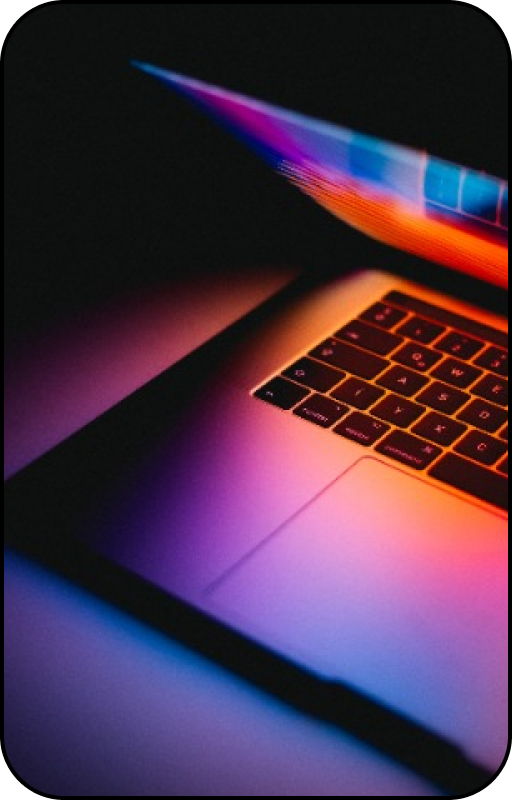
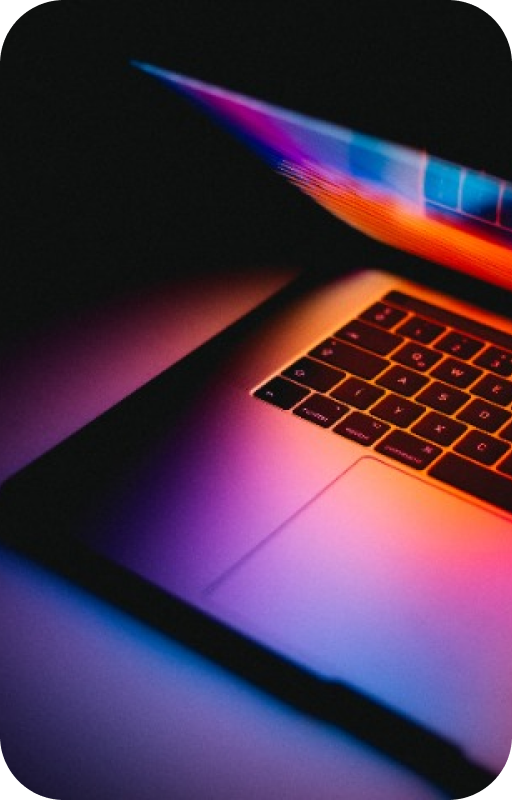
Add navbar, hero and product in the In tech computerizer

diff --git a/src/components/Product.jsx b/src/components/Product.jsx
@@ -6,7 +6,7 @@ export default function Product() {
   return (
     <section className="section py-12 px-4">
       <div className="flex flex-col lg:flex-row gap-12 xl:gap-0">
-        <div className="lg:w-1/2 flex gap-5 flex-col justify-center md:flex-row order-2 lg:order-1">
+        <div className="lg:w-1/2 flex gap-5 flex-col justify-center lg:justify-normal md:flex-row order-2 lg:order-1">
           <div className="flex flex-col gap-2 items-center justify-center border border-black-2 rounded-2xl p-20 hover:bg-primary hover:border-primary duration-500 transition-all">
             <img src={iconDesk} alt="" width={84} height={84} />
             <p className="font-semibold text-2xl">Laptop</p>

diff --git a/src/components/Hero.jsx b/src/components/Hero.jsx
@@ -20,7 +20,7 @@ export default function Hero() {
               <img src={imgHero3} alt="" />
             </div>
             <div className="bg-gray-1 rounded-xl col-end-7 col-span-4 md:col-span-3 ...">
-              <img src={imgHero2} alt="" />
+              <img src={imgHero2} alt="" className="rounded-tr-xl" />
             </div>
             <div className="rounded-xl flex flex-col gap-6 md:gap-16 lg:gap-8 xl:gap-16 items-center justify-center bg-primary col-start-1 col-span-2 ...">
               <img src={iconDesk} alt="" className="w-10 md:w-16" />

diff --git a/src/pages/HomePage.jsx b/src/pages/HomePage.jsx
@@ -2,6 +2,7 @@ import React from "react";
 import Navbar from "../components/Navbar";
 import Hero from "../components/Hero";
 import Product from "../components/Product";
+import Gallery from "../components/Gallery";
 
 const HomePage = () => {
   return (
@@ -9,6 +10,7 @@ const HomePage = () => {
       <Navbar />
       <Hero />
       <Product />
+      <Gallery />
     </>
   );
 };

diff --git a/src/components/Gallery.jsx b/src/components/Gallery.jsx
@@ -1,0 +1,11 @@
+import React from "react";
+
+export default function Gallery() {
+  return (
+    <section className="section py-12 px-4">
+      <div>
+        <h2 className="text-black-2 text-5xl font-semibold mb-10">Product</h2>
+      </div>
+    </section>
+  );
+}
